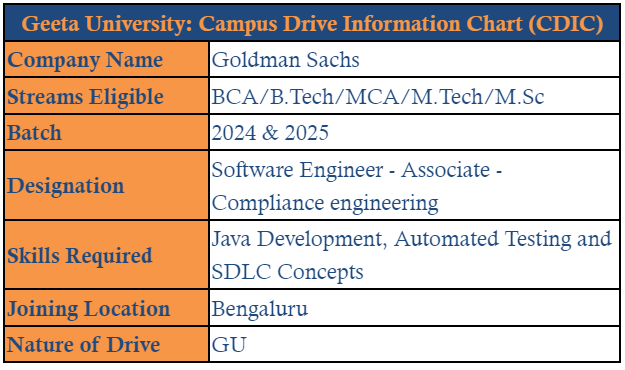
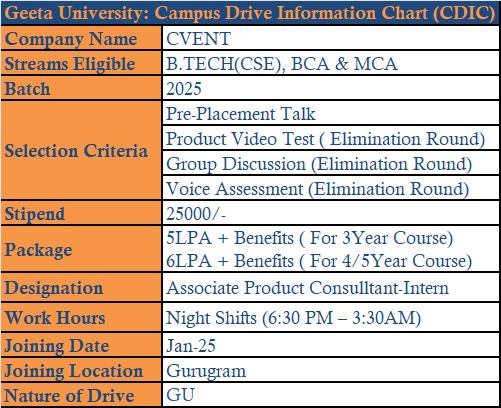
add new placement

diff --git a/src/Component/Popup.js b/src/Component/Popup.js
@@ -26,11 +26,14 @@ const Popup = ({ type, onClose }) => {
             case 'hackathons':
                 return (
                     <>
-                        <h2 className="popup-title">Hackathon</h2>
+                        {/* <h2 className="popup-title">Hackathon</h2>
                         <img src="https://d8it4huxumps7.cloudfront.net/uploads/images/opportunity/banner/66bf9bfd9347a_code-red.webp?d=1920x557" alt="Hackathon" className="popup-image" />
                         <h3 className="popup-subtitle">Code Red</h3>
                         <p className="popup-description">Click on More Details for more information about the hackathon, including registration and prizes.</p>
-                        <a href="https://unstop.com/hackathons/code-red-nitk-surathkal-1126425" target="_blank" rel="noopener noreferrer" className="popup-link">More Details</a>
+                        <a href="https://unstop.com/hackathons/code-red-nitk-surathkal-1126425" target="_blank" rel="noopener noreferrer" className="popup-link">More Details</a> */}
+                        
+                        <h2 className="popup-title">Hackathon</h2>
+                        <h3 className="popup-subtitle">Upcoming</h3>
                     </>
                 );
             case 'placement':
@@ -39,12 +42,20 @@ const Popup = ({ type, onClose }) => {
                         <h2 className="popup-title">Placement Drive</h2>
                         <ul className="popup-list">
                             <li className="popup-list-item">
-                                <h3 className="popup-subtitle">	Goldman Sachs</h3>
+                                <h3 className="popup-subtitle">	 CVENT</h3>
                                 <img src={imge} alt="Goldman Sachs" className="popup-image" />
                                 <div className="popup-list-item-content">
-                                    <a href="https://hdpc.fa.us2.oraclecloud.com/hcmUI/CandidateExperience/en/sites/LateralHiring/job/133401?mode=job&iis=LinkedIn" target="_blank" rel="noopener noreferrer" className="popup-link">Register Now</a>
+                                    <p className="popup-description">
+                                        <ul>
+                                            <li>Registration only done by your respective official Mail ID </li>
+                                            <li>Register by 2 September till 10AM</li>
+                                            <li>JD for this role attached to this mail, please read it carefully before applying</li>
+                                        </ul>
+                                    </p>
+                                    <a href="https://forms.gle/qKfz4mCkEWRWxKdcA" target="_blank" rel="noopener noreferrer" className="popup-link">Register Now</a>
                                 </div>
                             </li>
+
                             {/* Add more companies as needed */}
                         </ul>
                     </>

diff --git a/src/Component/Updates.js b/src/Component/Updates.js
@@ -18,23 +18,32 @@ function Updates() {
             <div className="updates-container">
                 <h2 className="updates-heading">Updates</h2>
                 <div className="updates-content">
-                    <div className="update-item">
-                        <h3 className="update-title">
-                            <a href="#" onClick={(e) => { e.preventDefault(); handleOpenPopup('placement'); }}>Placement Drive</a>
-                        </h3>
-                        <p className="update-description">Details about upcoming placement drives, deadlines, and preparation tips.</p>
+                    <div 
+                        className="update-item"
+                        onClick={() => handleOpenPopup('placement')}
+                    >
+                        <h3 className="update-title">Placement Drive</h3>
+                        <p className="update-description">
+                            Details about upcoming placement drives, deadlines, and preparation tips.
+                        </p>
                     </div>
-                    <div className="update-item">
-                        <h3 className="update-title">
-                            <a href="#" onClick={(e) => { e.preventDefault(); handleOpenPopup('events'); }}>Events</a>
-                        </h3>
-                        <p className="update-description">Information about upcoming events, guest lectures, and workshops.</p>
+                    <div 
+                        className="update-item"
+                        onClick={() => handleOpenPopup('events')}
+                    >
+                        <h3 className="update-title">Events</h3>
+                        <p className="update-description">
+                            Information about upcoming events, guest lectures, and workshops.
+                        </p>
                     </div>
-                    <div className="update-item">
-                        <h3 className="update-title">
-                            <a href="#" onClick={(e) => { e.preventDefault(); handleOpenPopup('hackathons'); }}>Hackathons</a>
-                        </h3>
-                        <p className="update-description">Details on upcoming hackathons, registration information, and prizes.</p>
+                    <div 
+                        className="update-item"
+                        onClick={() => handleOpenPopup('hackathons')}
+                    >
+                        <h3 className="update-title">Hackathons</h3>
+                        <p className="update-description">
+                            Details on upcoming hackathons, registration information, and prizes.
+                        </p>
                     </div>
                 </div>
             </div>

diff --git a/src/Component/Update.css b/src/Component/Update.css
@@ -36,22 +36,23 @@
     color: white; /* White text color for better contrast */
     font-weight: bold; /* Bold text */
     transition: transform 0.3s ease; /* Smooth transition for hover effect */
+    cursor: pointer; /* Pointer cursor to indicate clickable */
 }
 
 .update-item:hover {
     transform: translateY(-5px); /* Slight lift effect on hover */
 }
-.update-item h3 a{
-    text-decoration: none;
-    color: #ffffff;
-    
-}
+
 /* Update title styling */
 .update-title {
     font-size: 1.5rem; /* Font size for titles */
     margin-bottom: 0.5rem; /* Space below titles */
 }
 
+.update-title a {
+    text-decoration: none;
+    color: #ffffff;
+}
 
 /* Update description styling */
 .update-description {
